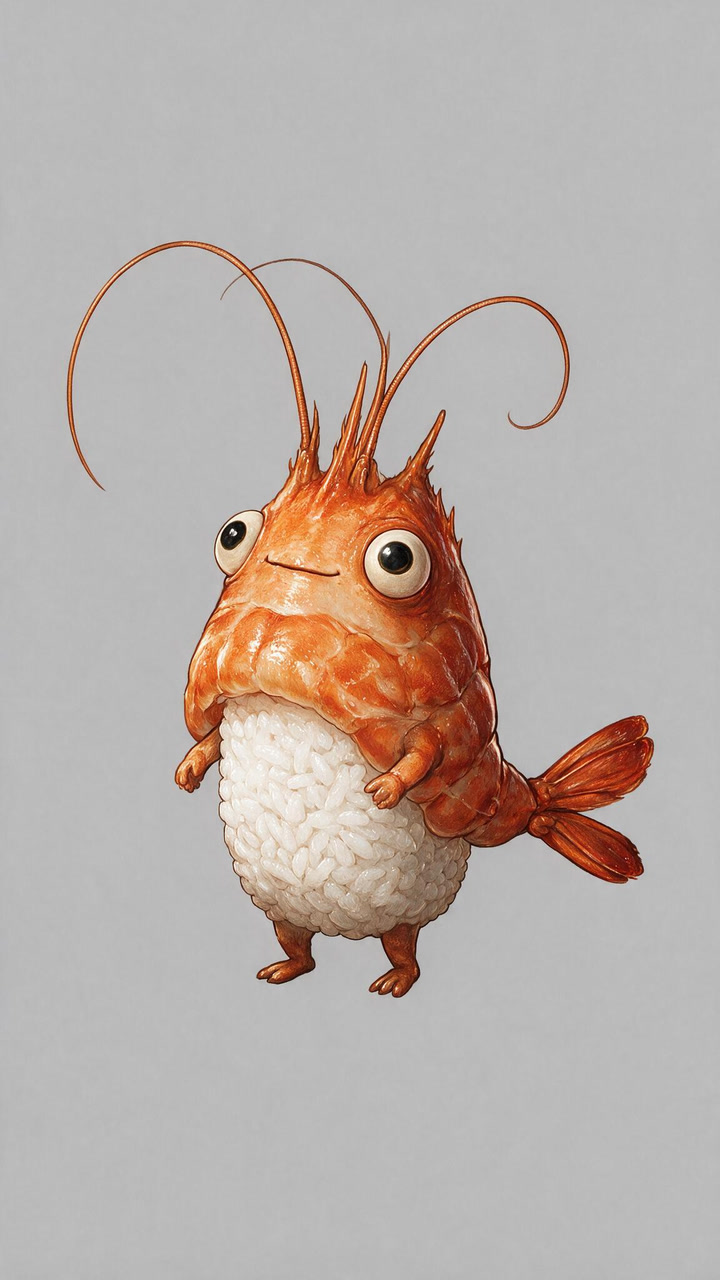
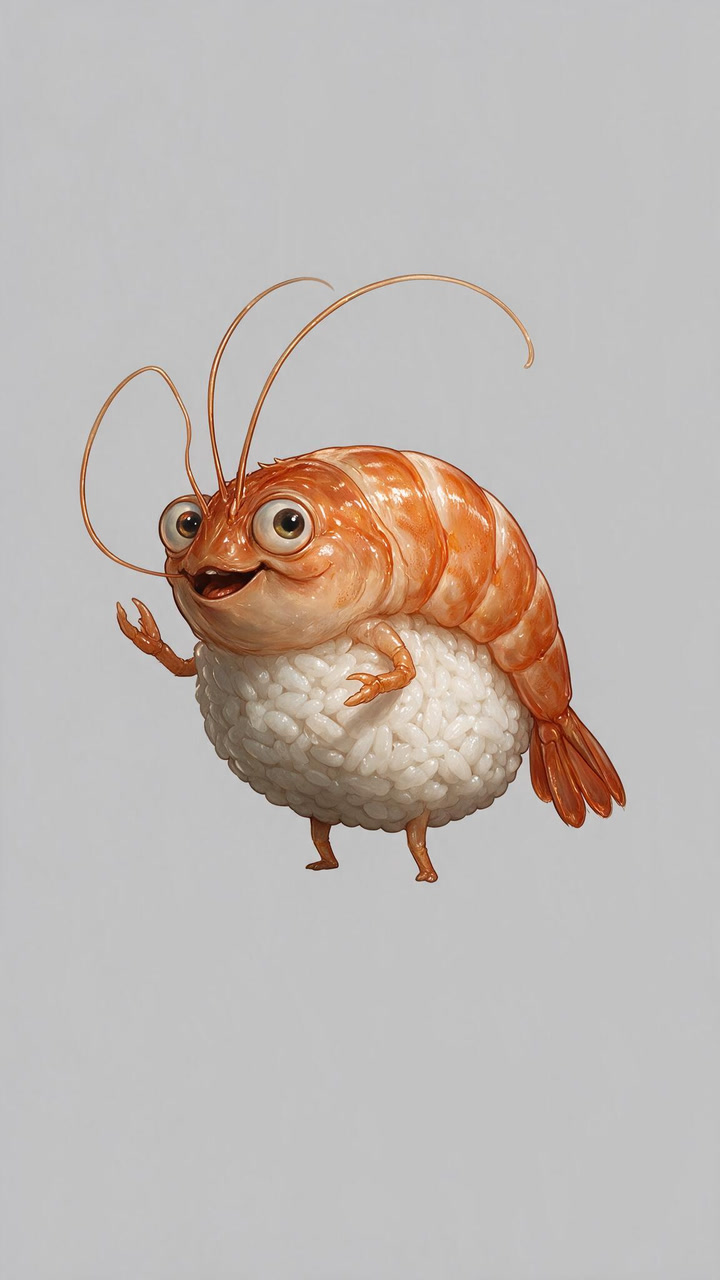
Story assets: candidates / picks [skip ci]

diff --git a/docs/story-import/assets.md b/docs/story-import/assets.md
@@ -2,7 +2,7 @@
 
 人物表: **まだ届いていない**（docs/story-rewrite/cast.md） ／ 場所表: **まだ届いていない**（places.md）
 
-- 人物 61人：✅ 絵あり 10／🎨 候補あり（選んでもらう） 1／⬜ 人物表の見た目待ち 50
+- 人物 61人：✅ 絵あり 11／⬜ 人物表の見た目待ち 50
 - 場所 6か所：✅ 絵あり 6
 - 効果音 0種（音のファイル 0・合成で鳴らす 0・本物の音が必要 0）／ BGM 0曲（音あり 0）
 
@@ -16,7 +16,6 @@
 | 大根カイザー | 290 | ⬜ 人物表の見た目待ち |  |
 | うんちピンポンくん | 41 | ⬜ 人物表の見た目待ち |  |
 | 小箱 | 31 | ⬜ 人物表の見た目待ち |  |
-| エビ | 29 | 🎨 候補あり（選んでもらう） |  |
 | いとこ | 19 | ⬜ 人物表の見た目待ち |  |
 | シャリ | 18 | ⬜ 人物表の見た目待ち |  |
 | ガリ | 13 | ⬜ 人物表の見た目待ち |  |
@@ -72,6 +71,7 @@
 | たこ焼きシスター | 121 | ✅ 絵あり |  |
 | ボスG | 61 | ✅ 絵あり |  |
 | ハットG | 39 | ✅ 絵あり |  |
+| エビ | 29 | ✅ 絵あり |  |
 | ロングG | 26 | ✅ 絵あり |  |
 
 ## 場所

diff --git a/docs/story-import/assets-promote-last-run.md b/docs/story-import/assets-promote-last-run.md
@@ -1,3 +1,3 @@
 # 物語の素材・本番入れ
 
-（新しく入れるものなし）
+- ✅ 人物 エビ ← apps/web/public/story/candidates/cast/c-1n955os/2.jpg（598×661）

diff --git a/docs/story-import/assets-paint-last-run.md b/docs/story-import/assets-paint-last-run.md
@@ -1,4 +1,4 @@
-# 物語の素材・候補 — 2026-10-13T03:59:08.021Z
+# 物語の素材・候補 — 2026-10-13T04:02:00.482Z
 
 Seedream 5.0 Pro / 約27円
 
